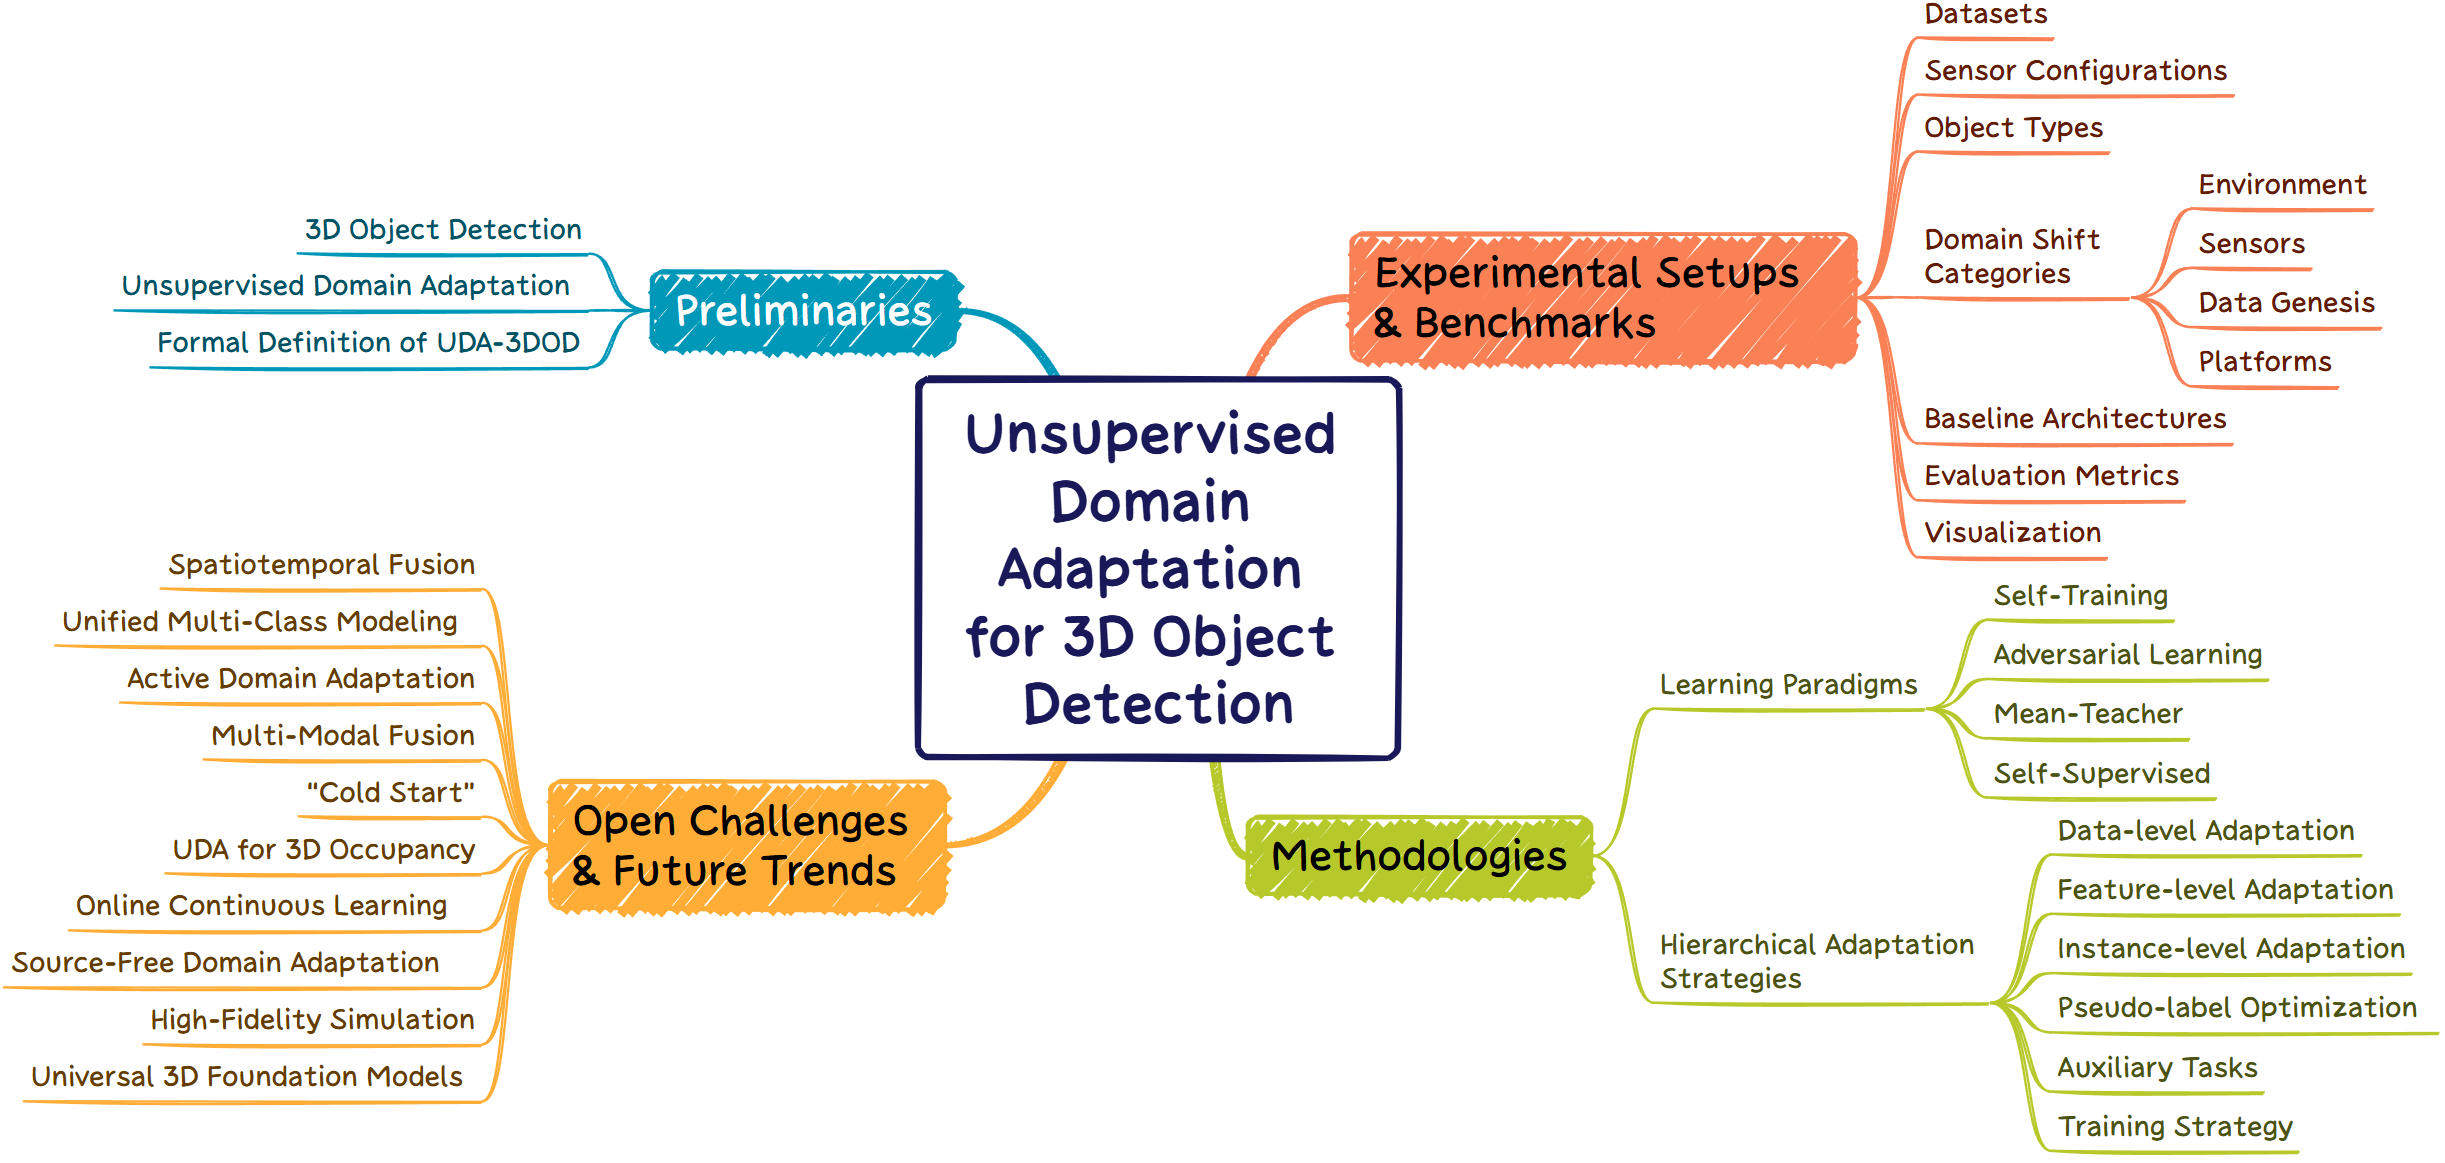
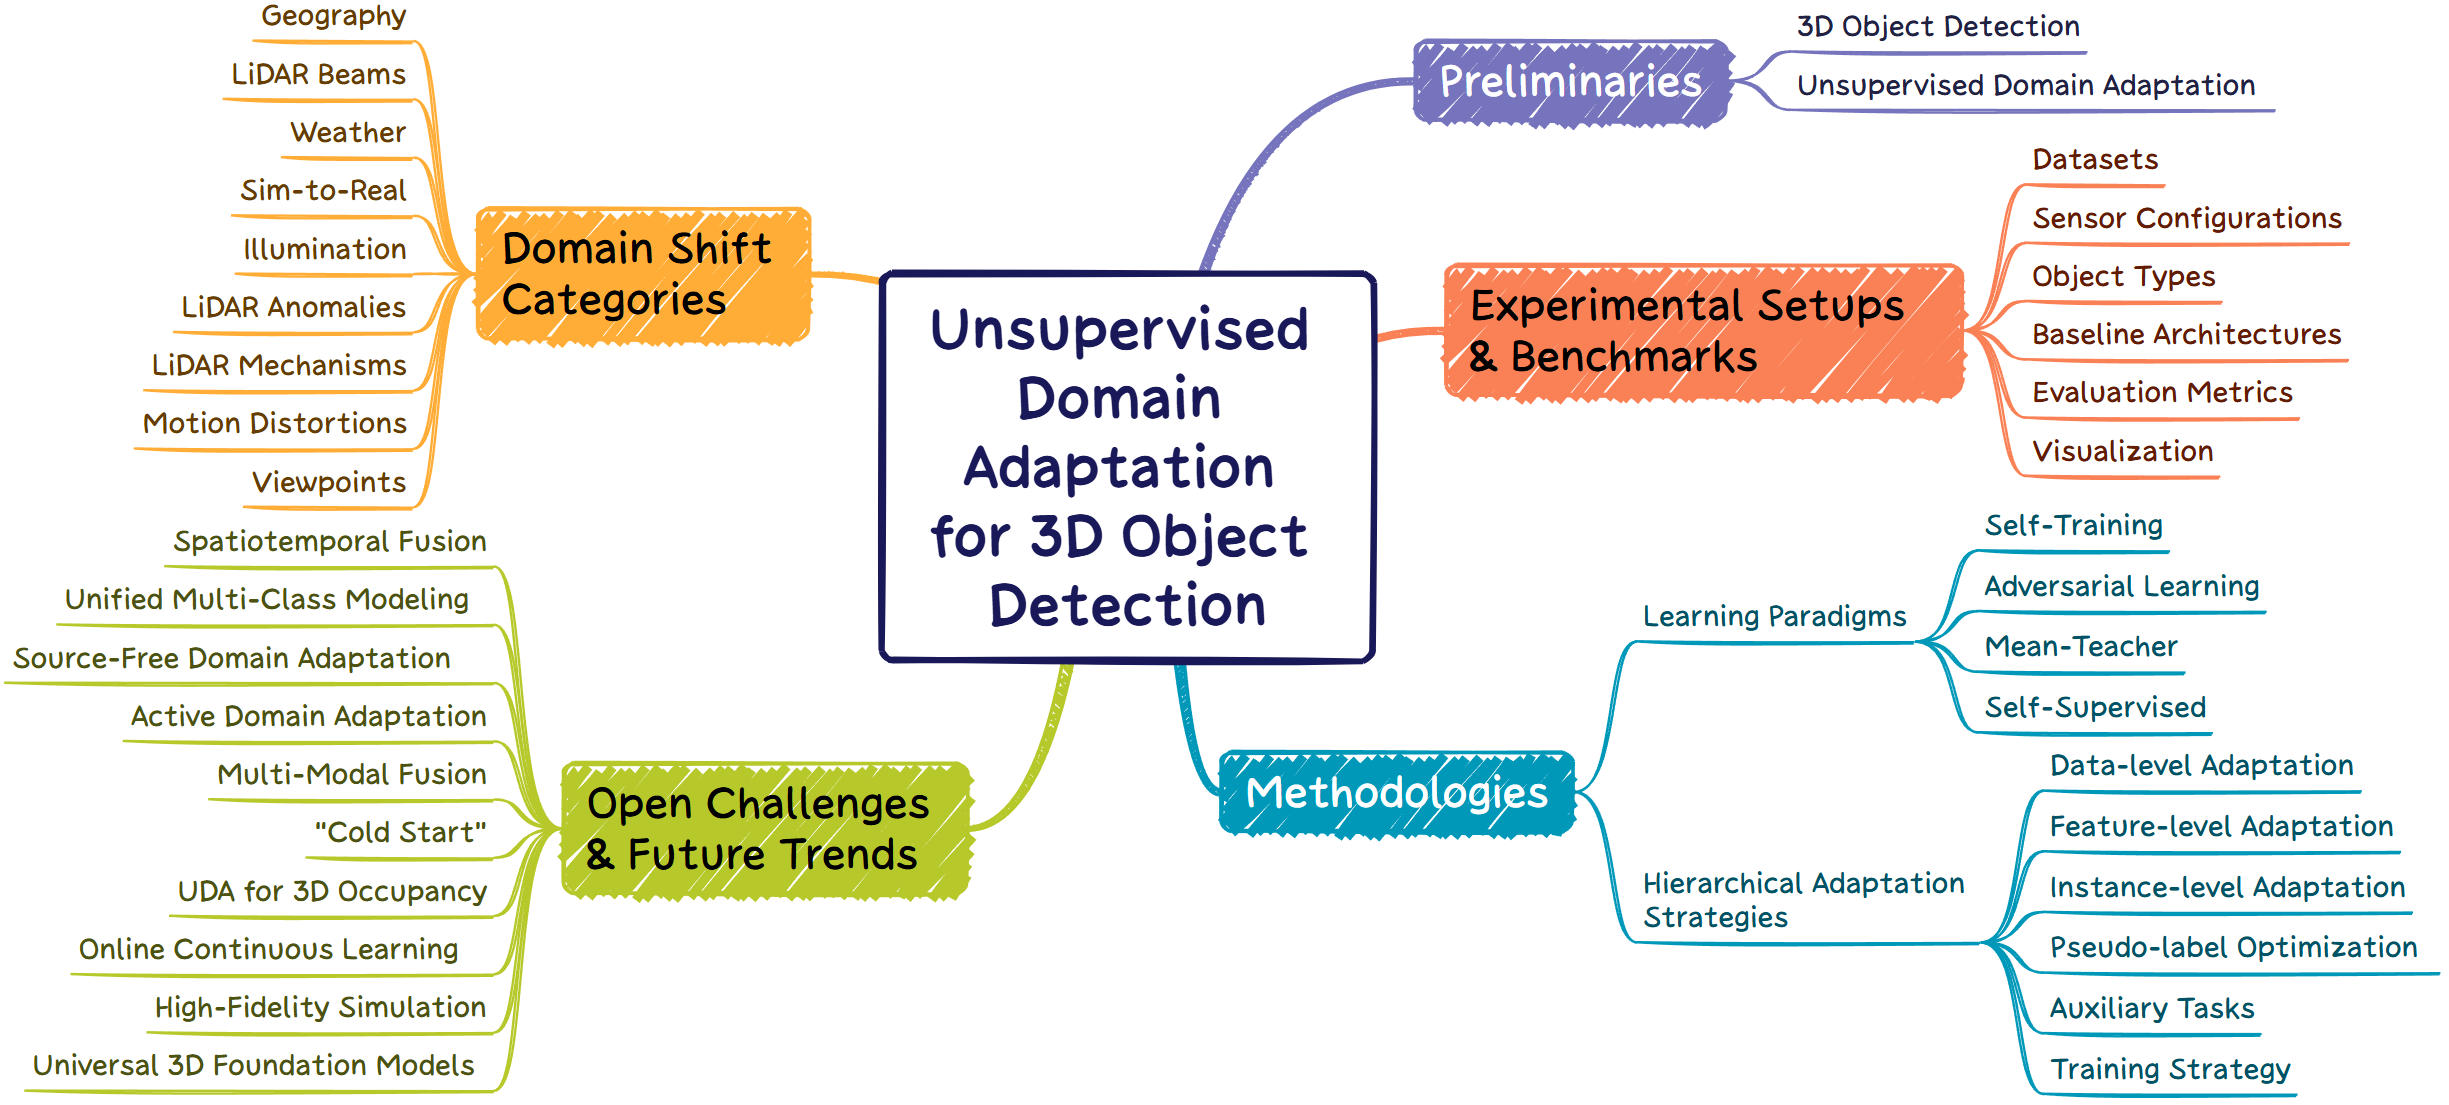
update UDA-3DOD info

Changed region(s): [[0.0, 0.0, 1.0, 1.0]]

diff --git a/index.html b/index.html
@@ -67,8 +67,8 @@
                 <br>
                 <strong>Yinghao Sun</strong>,
                 Lingdong Kong,
-                Ao Liang,
                 Peiliang Li,
+                Ao Liang,
                 Kunpeng Gou,
                 Siyuan Kang,
                 Qinghang Zhang,